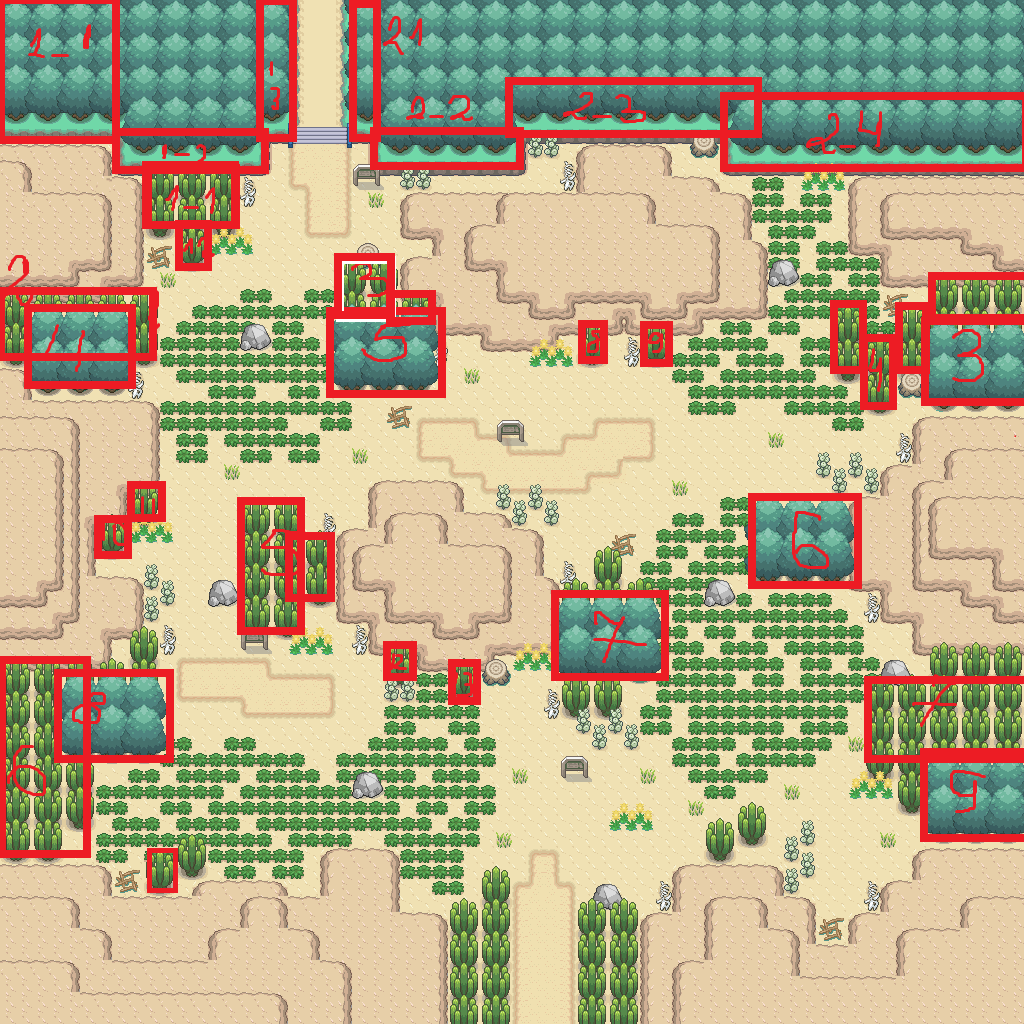
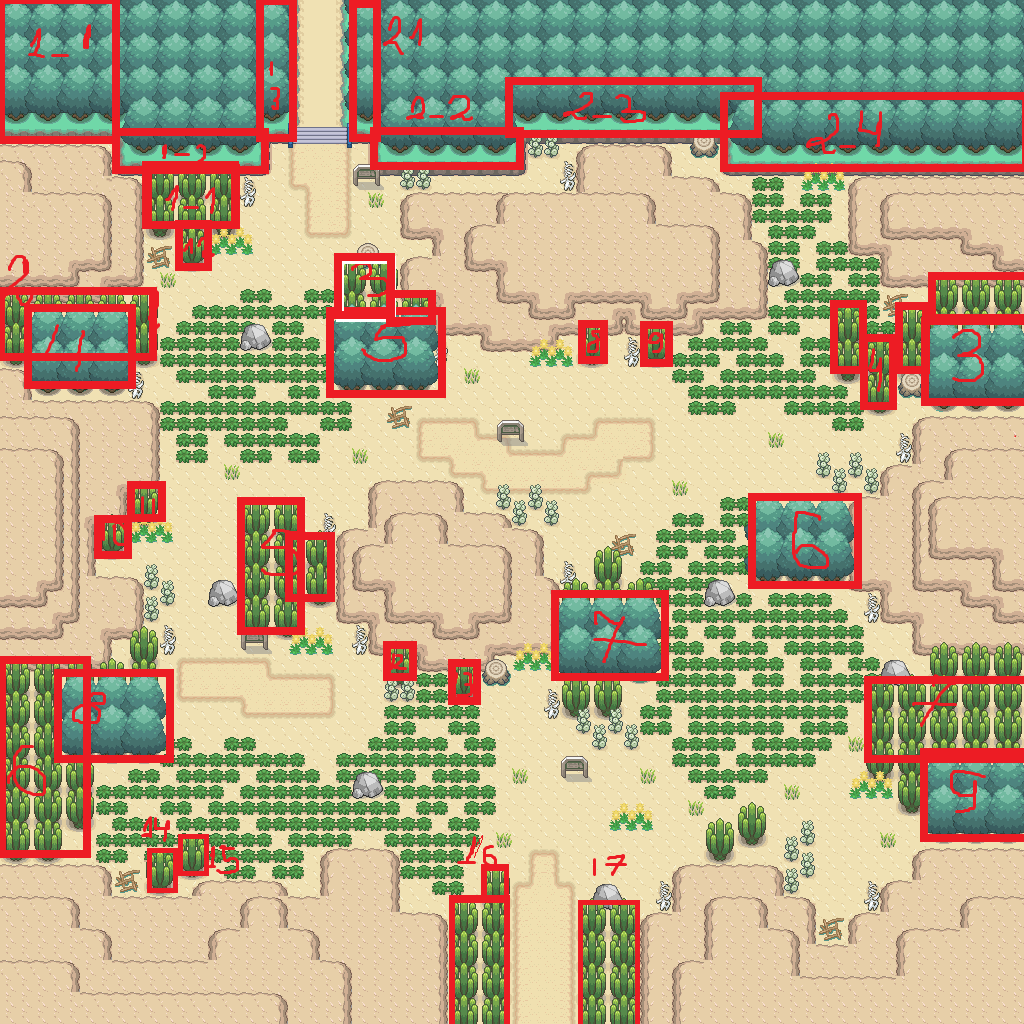
Edit_Boundaries

diff --git a/SpriteAnimation/MapBoundaries.cs b/SpriteAnimation/MapBoundaries.cs
@@ -47,6 +47,11 @@ namespace SpriteAnimation
         private Rectangle cactusP12;
         private Rectangle cactusP13;
         private Rectangle cactusP14;
+        private Rectangle cactusP15;
+        private Rectangle cactusP16_1;
+        private Rectangle cactusP16_2;
+        private Rectangle cactusP17_1;
+        private Rectangle cactusP17_2;
 
         public MapBoundaries()
         {
@@ -136,6 +141,17 @@ namespace SpriteAnimation
             this.mapObj.Add(this.cactusP13);
             this.cactusP14 = new Rectangle(149, 850, 5, 35);
             this.mapObj.Add(this.cactusP14);
+            this.cactusP15 = new Rectangle(180, 836, 5, 35);
+            this.mapObj.Add(this.cactusP15);
+
+            this.cactusP16_1 = new Rectangle(452, 900, 37, 134);
+            this.mapObj.Add(this.cactusP16_1);
+            this.cactusP16_2 = new Rectangle(484, 866, 5, 35);
+            this.mapObj.Add(this.cactusP16_2);
+
+            this.cactusP16_1 = new Rectangle(580, 902, 37, 152);
+            this.mapObj.Add(this.cactusP16_1);
+             
         }
 
 
